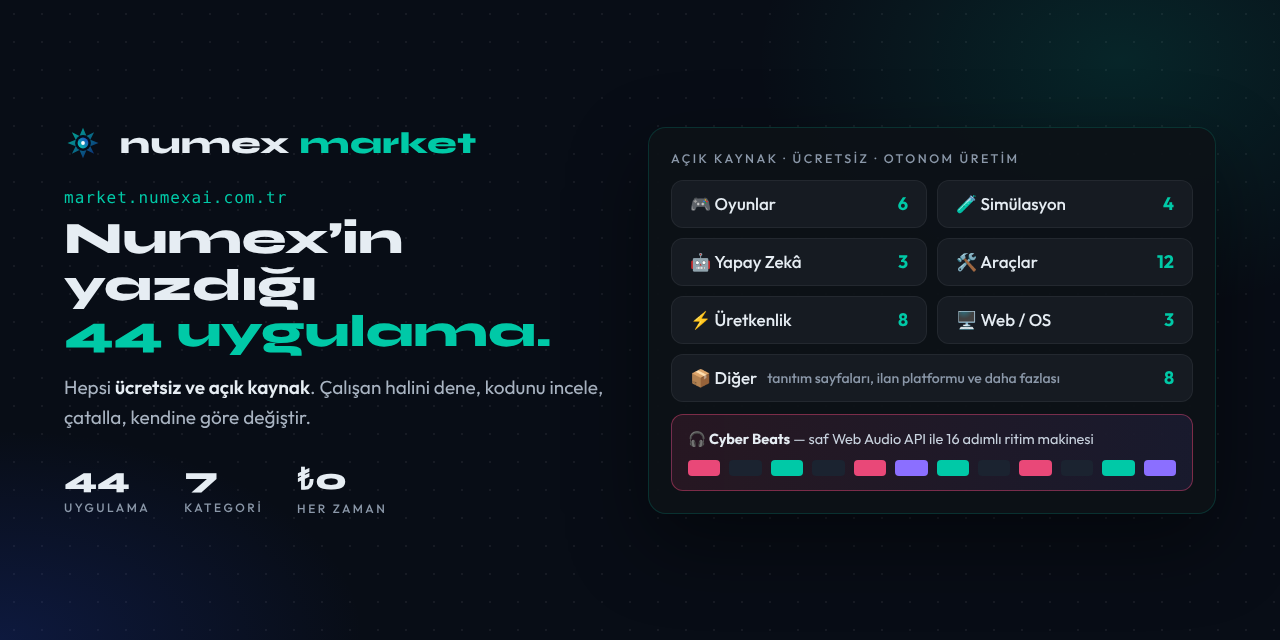
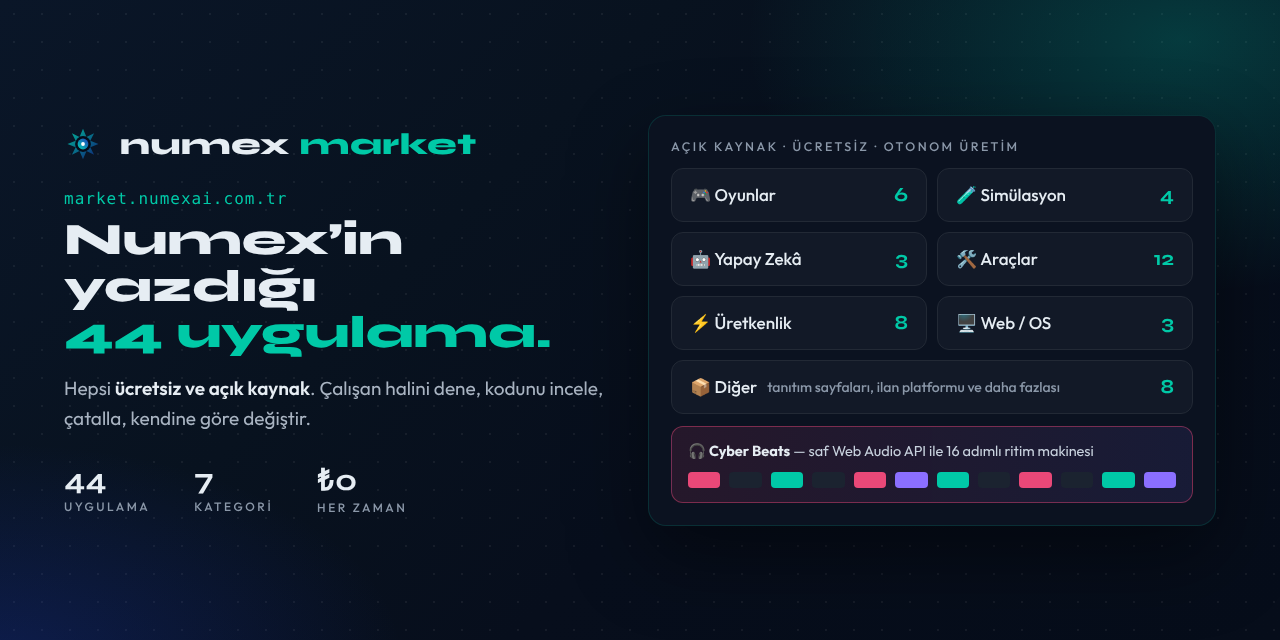
Market kartı marka stiline getirildi ve sayılar günlük otomatik eşitleniyor
Kart artık gorseller/kaynak/veri.json'dan çiziliyor (Syne/Outfit, marka renkleri).
scripts/market-esitle.mjs + Market eşitle iş akışı: numexai.com.tr vitrinindeki uygulama
sayılarını her gün README'ye ve karta işler; kaynak okunamazsa hiçbir şey değiştirmez.

diff --git a/gorseller/kaynak/banner.html b/gorseller/kaynak/banner.html
@@ -1,22 +1,23 @@
 <!doctype html>
 <!-- Numex Market tanıtım kartı (gorseller/banner.png ve numex_nedir/gorseller/kart-market.png).
-     PNG'yi yeniden üretmek için bu sayfayı 1280x640 görünümde açıp ekran görüntüsü alın. -->
+     Sayılar gorseller/kaynak/veri.json'dan gelir; scripts/market-esitle.mjs her gün yeniler ve PNG'yi bu sayfadan çizer.
+     Elle üretmek için: node scripts/market-esitle.mjs --yerel (veri.json'u değiştirmeden yalnızca kartı çizer). -->
 <html lang="tr">
 <head>
 <meta charset="utf-8">
 <title>Numex Market kartı</title>
 <link href="https://fonts.googleapis.com/css2?family=Syne:wght@700;800&family=Outfit:wght@400;500;600;700&display=swap" rel="stylesheet">
 <style>
-  :root { --teal:#00C9A7; --bg:#0d1117; --surface:#161b22; --text:#e6edf3; --muted:#8b98a9; --line:rgba(0,201,167,.18); }
+  :root { --teal:#00C9A7; --text:#e6edf3; --muted:#8b98a9; }
   * { box-sizing:border-box; margin:0; padding:0; }
   html, body { width:1280px; height:640px; overflow:hidden; }
   body {
     font-family:'Outfit',system-ui,sans-serif; color:var(--text);
     background:
-      radial-gradient(ellipse 520px 360px at 1120px 60px, rgba(0,201,167,.13), transparent 70%),
-      radial-gradient(ellipse 520px 300px at 0 640px, rgba(34,68,204,.22), transparent 70%),
+      radial-gradient(ellipse 620px 360px at 1180px 40px, rgba(0,200,170,.24), transparent 70%),
+      radial-gradient(ellipse 560px 300px at 0 660px, rgba(30,60,210,.25), transparent 72%),
       radial-gradient(rgba(255,255,255,.06) 1px, transparent 1.2px) 0 0/28px 28px,
-      #080d16;
+      linear-gradient(135deg, #0a1628 0%, #08121f 35%, #070e1c 60%, #060d1a 100%);
     display:flex; align-items:center; justify-content:space-between; padding:0 64px;
   }
   .sol { width:560px; }
@@ -24,18 +25,20 @@
   .logo svg { width:38px; height:38px; }
   .logo b { color:var(--teal); font-weight:800; }
   .adres { font-family:ui-monospace,'DejaVu Sans Mono',monospace; color:var(--teal); font-size:16px; letter-spacing:1px; margin:26px 0 8px; }
-  h1 { font-family:'Syne',sans-serif; font-weight:800; font-size:45px; line-height:1.04; letter-spacing:0; }
+  h1 { font-family:'Syne',sans-serif; font-weight:800; font-size:45px; line-height:1.04; }
   h1 span { color:var(--teal); }
   p { color:#a9b4c2; font-size:19px; line-height:1.55; margin-top:18px; }
   p strong { color:var(--text); font-weight:600; }
-  .rakam { display:flex; gap:34px; margin-top:28px; }
-  .rakam div { font-family:'Syne',sans-serif; font-weight:800; font-size:30px; }
-  .rakam small { display:block; font-family:'Outfit',sans-serif; font-weight:500; font-size:12px; letter-spacing:2.5px; color:var(--muted); margin-top:4px; }
-  .pano { width:568px; background:rgba(13,17,23,.92); border:1px solid var(--line); border-radius:18px; padding:22px; box-shadow:0 30px 80px rgba(0,0,0,.45); }
+  .rakam { display:flex; gap:44px; margin-top:28px; }
+  .rakam div { font-family:'Syne',sans-serif; font-weight:700; font-size:30px; }
+  .rakam small { display:block; font-family:'Outfit',sans-serif; font-weight:500; font-size:12px; letter-spacing:2.5px; color:var(--muted); margin-top:2px; }
+  .pano { width:568px; background:#0b1220; border:1px solid rgba(0,201,167,.16); border-radius:18px; padding:22px; box-shadow:0 30px 80px rgba(0,0,0,.45); }
   .pano h6 { font-size:12.5px; font-weight:500; letter-spacing:2.5px; color:var(--muted); margin-bottom:14px; }
   .izgara { display:grid; grid-template-columns:1fr 1fr; gap:10px; }
-  .kat { display:flex; align-items:center; justify-content:space-between; background:var(--surface); border:1px solid rgba(255,255,255,.06); border-radius:12px; height:48px; padding:0 18px; font-size:17px; font-weight:500; }
-  .kat b { color:var(--teal); font-weight:700; font-size:18px; }
+  .kat { display:flex; align-items:center; justify-content:space-between; background:#121927; border:1px solid #222935; border-radius:12px; height:54px; padding:0 18px; font-size:17px; font-weight:500; }
+  .kat.genis { grid-column:1 / -1; }
+  .kat em { font-style:normal; color:var(--muted); font-size:14px; flex:1; margin-left:10px; }
+  .kat b { color:var(--teal); font-family:'Syne',sans-serif; font-weight:700; font-size:20px; }
   .ornek { margin-top:12px; border:1px solid rgba(233,72,120,.45); border-radius:12px; padding:14px 16px; background:linear-gradient(90deg,rgba(233,72,120,.12),rgba(143,107,255,.10)); }
   .ornek div:first-child { font-size:14.5px; color:#c9d3df; }
   .ornek strong { color:var(--text); }
@@ -51,29 +54,42 @@
       <div>numex <b>market</b></div>
     </div>
     <div class="adres">market.numexai.com.tr</div>
-    <h1>Numex’in<br>yazdığı<br><span>44 uygulama.</span></h1>
+    <h1>Numex’in<br>yazdığı<br><span><span id="toplam-baslik">44</span> uygulama.</span></h1>
     <p>Hepsi <strong>ücretsiz ve açık kaynak</strong>. Çalışan halini dene, kodunu incele, çatalla, kendine göre değiştir.</p>
     <div class="rakam">
-      <div>44<small>UYGULAMA</small></div>
-      <div>7<small>KATEGORİ</small></div>
+      <div><span id="toplam">44</span><small>UYGULAMA</small></div>
+      <div><span id="kategori">7</span><small>KATEGORİ</small></div>
       <div>₺0<small>HER ZAMAN</small></div>
     </div>
   </div>
   <div class="pano">
     <h6>AÇIK KAYNAK · ÜCRETSİZ · OTONOM ÜRETİM</h6>
-    <div class="izgara">
-      <div class="kat">🎮 Oyunlar <b>6</b></div>
-      <div class="kat">🧪 Simülasyon <b>4</b></div>
-      <div class="kat">🤖 Yapay Zekâ <b>3</b></div>
-      <div class="kat">🛠 Araçlar <b>12</b></div>
-      <div class="kat">⚡ Üretkenlik <b>8</b></div>
-      <div class="kat">🖥 Web / OS <b>3</b></div>
-      <div class="kat" style="grid-column:1 / -1">📦 Diğer <span style="color:var(--muted);font-size:14px;flex:1;margin-left:10px">tanıtım sayfaları, ilan platformu ve daha fazlası</span><b>8</b></div>
-    </div>
+    <div class="izgara" id="izgara"></div>
     <div class="ornek">
       <div>🎧 <strong>Cyber Beats</strong> — saf Web Audio API ile 16 adımlı ritim makinesi</div>
       <div class="adim"><i class="p"></i><i></i><i class="t"></i><i></i><i class="p"></i><i class="m"></i><i class="t"></i><i></i><i class="p"></i><i></i><i class="t"></i><i class="m"></i></div>
     </div>
   </div>
+<script>
+  // Varsayılan veri; market-esitle.mjs çizmeden önce window.MARKET'i veri.json ile doldurur.
+  const veri = window.MARKET || { toplam: 44, kategoriler: [
+    { ad: 'Oyunlar', simge: '🎮', sayi: 6 }, { ad: 'Simülasyon', simge: '🧪', sayi: 4 },
+    { ad: 'Yapay Zekâ', simge: '🤖', sayi: 3 }, { ad: 'Araçlar', simge: '🛠', sayi: 12 },
+    { ad: 'Üretkenlik', simge: '⚡', sayi: 8 }, { ad: 'Web / OS', simge: '🖥', sayi: 3 },
+    { ad: 'Diğer', simge: '📦', sayi: 8, aciklama: 'tanıtım sayfaları, ilan platformu ve daha fazlası' } ] };
+  const dolu = veri.kategoriler.filter((k) => k.sayi > 0);
+  for (const id of ['toplam', 'toplam-baslik']) document.getElementById(id).textContent = veri.toplam;
+  document.getElementById('kategori').textContent = dolu.length;
+  const izgara = document.getElementById('izgara');
+  dolu.forEach((k, i) => {
+    const d = document.createElement('div');
+    const tekKalan = dolu.length % 2 === 1 && i === dolu.length - 1;
+    d.className = 'kat' + (tekKalan ? ' genis' : '');
+    d.append(`${k.simge} ${k.ad}`);
+    if (tekKalan && k.aciklama) { const e = document.createElement('em'); e.textContent = k.aciklama; d.append(e); }
+    const b = document.createElement('b'); b.textContent = k.sayi; d.append(b);
+    izgara.append(d);
+  });
+</script>
 </body>
 </html>
